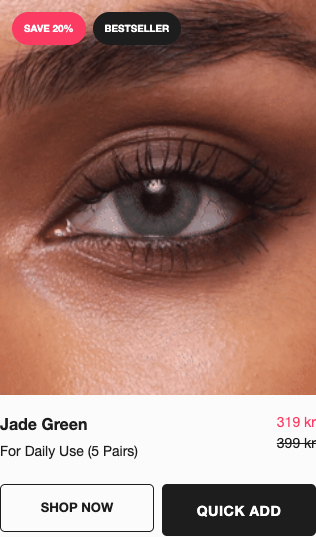
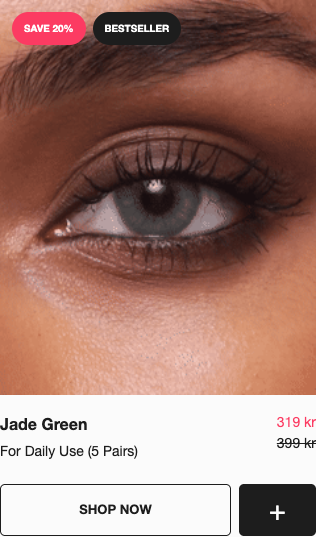
Change dual-action card to 75 percent Shop now and plus quick buy

Changed region(s): [[0.0, 0.8939, 0.769, 1.0], [0.7975, 0.9236, 0.8829, 0.9832]]

diff --git a/index.html b/index.html
@@ -4,20 +4,20 @@
 
 html{scroll-behavior:smooth;scroll-padding-top:90px}.jumpnav{position:sticky;top:0;z-index:20;display:flex;justify-content:center;gap:7px;padding:12px 20px;background:#f4f3eff5;backdrop-filter:blur(12px);border-bottom:1px solid #d6d5cf;overflow-x:auto}.jumpnav a{white-space:nowrap;text-decoration:none;font-size:12px;padding:8px 12px;border-radius:5px}.jumpnav a:hover,.jumpnav a:focus-visible{background:#e5eadf}.jumpnav span{color:#777;font-size:10px;margin-right:5px}.section-heading{display:flex;justify-content:space-between;align-items:center;border-top:1px solid #cecec7;padding-top:35px;margin-bottom:10px}.section-heading h2{margin-top:8px}.section-heading p{font-size:12px;color:#666}.hero{padding-top:30px}.confirmation{display:grid;grid-template-columns:1fr 2fr;gap:35px;align-items:center;margin-top:35px}.confirmation img{width:100%;border-radius:12px;border:1px solid #ddd}.confirmation>div:last-child{max-width:520px}.confirmation .launch{display:inline-block}main img{cursor:zoom-in}.zoom{padding:48px 10px 10px;border:0;border-radius:10px;max-width:96vw;max-height:96dvh;background:#f4f3ef}.zoom::backdrop{background:#000b}.zoom img{display:block;max-width:91vw;max-height:83dvh;width:auto;height:auto;object-fit:contain}.zoom button{position:absolute;top:8px;right:12px;background:transparent;border:0;font:28px Arial;cursor:pointer;width:36px;height:36px}.zoom p{position:absolute;top:13px;left:16px;font-size:12px;margin:0}.section .desktop{margin-bottom:40px}a:focus-visible,button:focus-visible{outline:3px solid #56796c;outline-offset:3px}
 @media(max-width:800px){.jumpnav{justify-content:flex-start;padding:9px 12px}.jumpnav a{font-size:11px;padding:6px 8px}.hero{padding-top:20px}.section-heading{display:block}.confirmation{grid-template-columns:1fr}.confirmation img{max-width:390px}.cards{gap:24px 16px}.state-grid{gap:35px}.zoom img{max-width:88vw}.zoom p{max-width:75%;white-space:nowrap;overflow:hidden;text-overflow:ellipsis}}
-</style></head><body><header><img src="assets/logo.svg?v=3" alt="SWATI"><span class="kicker">CRO EXPLORATION / 18 SEPTEMBER 2026</span></header><nav class="jumpnav" aria-label="Showcase sections"><a href="#mobile-concepts"><span>01</span> Mobile popups</a><a href="#card-buttons"><span>02</span> Card buttons</a><a href="#desktop-layouts"><span>03</span> Desktop popups</a><a href="#selection-states"><span>04</span> Selection states</a><a href="#references"><span>05</span> References</a><a href="#test-plan"><span>06</span> Test recommendation</a></nav><main>
+</style></head><body><header><img src="assets/logo.svg?v=4" alt="SWATI"><span class="kicker">CRO EXPLORATION / 18 SEPTEMBER 2026</span></header><nav class="jumpnav" aria-label="Showcase sections"><a href="#mobile-concepts"><span>01</span> Mobile popups</a><a href="#card-buttons"><span>02</span> Card buttons</a><a href="#desktop-layouts"><span>03</span> Desktop popups</a><a href="#selection-states"><span>04</span> Selection states</a><a href="#references"><span>05</span> References</a><a href="#test-plan"><span>06</span> Test recommendation</a></nav><main>
 <div class="hero"><div><div class="kicker">Collection → Configuration → Bag</div><h1>A shorter path<br>to their shade.</h1><p class="intro">Three quick-add experiences. One familiar SWATI card. All the essential lens choices, without leaving the collection.</p></div><aside class="recommend"><div class="kicker">Recommended first test</div><b>Current journey vs. compact selector</b><p>Replace “Shop now” with “Quick add”. Keep the image and name linked to the PDP. Test completed purchases and revenue, not just more adds.</p><a href="#test-plan">See the test recommendation ↓</a></aside></div>
 <section id="mobile-concepts" class="mobile-section"><div class="section-heading"><div><div class="kicker">01 / Mobile popups</div><h2>All three alternatives.</h2></div><p>Click a mockup to enlarge it.<br>Use “Try concept” to explore the flow.</p></div><div class="concepts">
-<article class="concept"><div class="caption"><span class="number">A</span><h3>Compact selector</h3><p>A bottom sheet on mobile. A centred modal on desktop. The clearest starting point.</p></div><a href="prototype.html?v=3&concept=compact&open=1"><img class="screen" src="previews/compact-mobile.png?v=3" alt="Concept A: compact mobile quick-add selector"></a><div class="actions"><a class="launch" href="prototype.html?v=3&concept=compact">Try concept A →</a><a href="previews/compact-desktop.png?v=3">Desktop</a><a href="prototype.html?v=3&concept=compact&open=1&state=dual">Two powers</a></div></article>
-<article class="concept"><div class="caption"><span class="number">B</span><h3>Roomier drawer</h3><p>More space to review the choices. A side drawer on desktop and a tall sheet on mobile.</p></div><a href="prototype.html?v=3&concept=drawer&open=1"><img class="screen" src="previews/drawer-mobile.png?v=3" alt="Concept B: tall mobile product drawer"></a><div class="actions"><a class="launch" href="prototype.html?v=3&concept=drawer">Try concept B →</a><a href="previews/drawer-desktop.png?v=3">Desktop</a><a href="prototype.html?v=3&concept=drawer&open=1&state=dual">Two powers</a></div></article>
-<article class="concept"><div class="caption"><span class="number">C</span><h3>Guided selection</h3><p>Choose lenses, then eye power. Less to process at once, with one extra step to complete.</p></div><a href="prototype.html?v=3&concept=guided&open=1"><img class="screen" src="previews/guided-mobile.png?v=3" alt="Concept C: first step of guided lens selection"></a><div class="actions"><a class="launch" href="prototype.html?v=3&concept=guided">Try concept C →</a><a href="previews/guided-desktop.png?v=3">Desktop</a><a href="prototype.html?v=3&concept=guided&open=1&state=ready">Step two</a></div></article>
+<article class="concept"><div class="caption"><span class="number">A</span><h3>Compact selector</h3><p>A bottom sheet on mobile. A centred modal on desktop. The clearest starting point.</p></div><a href="prototype.html?v=4&concept=compact&open=1"><img class="screen" src="previews/compact-mobile.png?v=4" alt="Concept A: compact mobile quick-add selector"></a><div class="actions"><a class="launch" href="prototype.html?v=4&concept=compact">Try concept A →</a><a href="previews/compact-desktop.png?v=4">Desktop</a><a href="prototype.html?v=4&concept=compact&open=1&state=dual">Two powers</a></div></article>
+<article class="concept"><div class="caption"><span class="number">B</span><h3>Roomier drawer</h3><p>More space to review the choices. A side drawer on desktop and a tall sheet on mobile.</p></div><a href="prototype.html?v=4&concept=drawer&open=1"><img class="screen" src="previews/drawer-mobile.png?v=4" alt="Concept B: tall mobile product drawer"></a><div class="actions"><a class="launch" href="prototype.html?v=4&concept=drawer">Try concept B →</a><a href="previews/drawer-desktop.png?v=4">Desktop</a><a href="prototype.html?v=4&concept=drawer&open=1&state=dual">Two powers</a></div></article>
+<article class="concept"><div class="caption"><span class="number">C</span><h3>Guided selection</h3><p>Choose lenses, then eye power. Less to process at once, with one extra step to complete.</p></div><a href="prototype.html?v=4&concept=guided&open=1"><img class="screen" src="previews/guided-mobile.png?v=4" alt="Concept C: first step of guided lens selection"></a><div class="actions"><a class="launch" href="prototype.html?v=4&concept=guided">Try concept C →</a><a href="previews/guided-desktop.png?v=4">Desktop</a><a href="prototype.html?v=4&concept=guided&open=1&state=ready">Step two</a></div></article>
 </div></section>
-<section class="section" id="card-buttons"><div class="kicker">02 / Card buttons</div><h2>Three ways to open it.</h2><p>Choose the popup and its entry separately. The three popup concepts above all use the same labelled button.</p><div class="cards"><div class="current"><h3>Control · current card</h3><img src="assets/current-card.png?v=3" alt="User-supplied current SWATI product card"><p>Shop now opens the PDP. Supplied screenshot.</p></div><div><h3>1 · Replace the button</h3><img src="previews/trigger-replace.png?v=3" alt="Quick Add primary button"><p>Highest visibility, same footprint. Image and title retain the PDP route.</p><a href="prototype.html?v=3&trigger=replace">Try this entry ↗</a></div><div><h3>2 · Keep both actions</h3><img src="previews/trigger-split.png?v=3" alt="Shop Now and Quick Add buttons"><p>Both journeys are explicit. Adds visual weight and mobile card height.</p><a href="prototype.html?v=3&trigger=split">Try this entry ↗</a></div><div><h3>3 · Add a permanent plus</h3><img src="previews/trigger-plus.png?v=3" alt="Plus button over product photo with Shop Now below"><p>Keeps the current CTA. Less explicit, and places a control over the eye photo.</p><a href="prototype.html?v=3&trigger=plus">Try this entry ↗</a></div></div></section>
-<section class="section" id="desktop-layouts"><div class="kicker">03 / Desktop popups</div><h2>Same choices. Different amount of space.</h2><h3>A · Centred selector</h3><img class="desktop" src="previews/compact-desktop.png?v=3" alt="Compact desktop modal"><h3>B · Side drawer</h3><img class="desktop" src="previews/drawer-desktop.png?v=3" alt="Desktop quick-add drawer"><h3>C · Two-step modal</h3><img class="desktop" src="previews/guided-desktop.png?v=3" alt="Wide guided desktop modal with eye image"></section>
-<section class="section" id="selection-states"><div class="kicker">04 / Selection states</div><h2>Two powers means two packs.</h2><p>Show that consequence before adding. Keep the total visible, and confirm exactly what went into the bag.</p><div class="state-grid"><div><h3>A · Separate eye powers</h3><img src="previews/compact-mobile-dual.png?v=3" alt="Two eye powers and a combined 638 kr total"></div><div><h3>B · Separate eye powers</h3><img src="previews/drawer-mobile-dual.png?v=3" alt="Drawer showing separate left and right eye powers"></div><div><h3>C · Second step</h3><img src="previews/guided-mobile-dual.png?v=3" alt="Guided selection eye-power step"></div></div><div class="confirmation"><div><h3>After adding · Confirmation</h3><img src="previews/compact-mobile-success.png?v=3" alt="Mock confirmation showing four packs after quantity changed to two per eye"></div><div><h3>Review before returning to the collection.</h3><p>Every concept supports separate left and right powers. The summary shows the selected shade, duration, pack count and combined total.</p><p>This example follows increasing quantity to two per eye: four packs total.</p><a class="launch" href="prototype.html?v=3&concept=compact&open=1&state=dual">Try the two-power flow →</a></div></div><p class="note">Confirmation example follows increasing quantity to two per eye: four packs total. Production should hand off to SWATI’s existing cart drawer. This prototype never changes a real cart.</p></section>
-<section class="section" id="references"><div class="kicker">05 / Reference takeaways</div><h2>Borrow the right behaviour.</h2><div class="table"><div><h3>Meridian · options first</h3><p>The sampled trimmer opens a product modal with colour choices before adding. This is the closest match to SWATI’s need.</p><a href="https://www.meridiangrooming.com/collections/trimmers">Reference ↗</a> · <a href="research/meridian-quick.png?v=3">Observed modal</a></div><div><h3>Javvy · immediate feedback</h3><p>The sampled item goes straight into a cart drawer. Borrow its clear confirmation; SWATI needs eye-power selection before that point.</p><a href="https://javvycoffee.com/">Reference ↗</a> · <a href="research/javvy-quick.png?v=3">Observed drawer</a></div><div><h3>True Classic · clear choices</h3><p>The rendered configurator exposes size, length and pack choices, and asks for a size before adding. Its collection popup was not separately verified.</p><a href="https://www.trueclassictees.com/">Reference ↗</a></div></div></section>
+<section class="section" id="card-buttons"><div class="kicker">02 / Card buttons</div><h2>Three ways to open it.</h2><p>Choose the popup and its entry separately. The three popup concepts above all use the same labelled button.</p><div class="cards"><div class="current"><h3>Control · current card</h3><img src="assets/current-card.png?v=4" alt="User-supplied current SWATI product card"><p>Shop now opens the PDP. Supplied screenshot.</p></div><div><h3>1 · Replace the button</h3><img src="previews/trigger-replace.png?v=4" alt="Quick Add primary button"><p>Highest visibility, same footprint. Image and title retain the PDP route.</p><a href="prototype.html?v=4&trigger=replace">Try this entry ↗</a></div><div><h3>2 · Keep both actions</h3><img src="previews/trigger-split.png?v=4" alt="75 percent Shop Now button and 25 percent plus quick-buy button"><p>Shop now takes approximately 75% of the row. The + quick-buy button takes the remaining 25%, on desktop and mobile.</p><a href="prototype.html?v=4&trigger=split">Try this entry ↗</a></div><div><h3>3 · Add a permanent plus</h3><img src="previews/trigger-plus.png?v=4" alt="Plus button over product photo with Shop Now below"><p>Keeps the current CTA. Less explicit, and places a control over the eye photo.</p><a href="prototype.html?v=4&trigger=plus">Try this entry ↗</a></div></div></section>
+<section class="section" id="desktop-layouts"><div class="kicker">03 / Desktop popups</div><h2>Same choices. Different amount of space.</h2><h3>A · Centred selector</h3><img class="desktop" src="previews/compact-desktop.png?v=4" alt="Compact desktop modal"><h3>B · Side drawer</h3><img class="desktop" src="previews/drawer-desktop.png?v=4" alt="Desktop quick-add drawer"><h3>C · Two-step modal</h3><img class="desktop" src="previews/guided-desktop.png?v=4" alt="Wide guided desktop modal with eye image"></section>
+<section class="section" id="selection-states"><div class="kicker">04 / Selection states</div><h2>Two powers means two packs.</h2><p>Show that consequence before adding. Keep the total visible, and confirm exactly what went into the bag.</p><div class="state-grid"><div><h3>A · Separate eye powers</h3><img src="previews/compact-mobile-dual.png?v=4" alt="Two eye powers and a combined 638 kr total"></div><div><h3>B · Separate eye powers</h3><img src="previews/drawer-mobile-dual.png?v=4" alt="Drawer showing separate left and right eye powers"></div><div><h3>C · Second step</h3><img src="previews/guided-mobile-dual.png?v=4" alt="Guided selection eye-power step"></div></div><div class="confirmation"><div><h3>After adding · Confirmation</h3><img src="previews/compact-mobile-success.png?v=4" alt="Mock confirmation showing four packs after quantity changed to two per eye"></div><div><h3>Review before returning to the collection.</h3><p>Every concept supports separate left and right powers. The summary shows the selected shade, duration, pack count and combined total.</p><p>This example follows increasing quantity to two per eye: four packs total.</p><a class="launch" href="prototype.html?v=4&concept=compact&open=1&state=dual">Try the two-power flow →</a></div></div><p class="note">Confirmation example follows increasing quantity to two per eye: four packs total. Production should hand off to SWATI’s existing cart drawer. This prototype never changes a real cart.</p></section>
+<section class="section" id="references"><div class="kicker">05 / Reference takeaways</div><h2>Borrow the right behaviour.</h2><div class="table"><div><h3>Meridian · options first</h3><p>The sampled trimmer opens a product modal with colour choices before adding. This is the closest match to SWATI’s need.</p><a href="https://www.meridiangrooming.com/collections/trimmers">Reference ↗</a> · <a href="research/meridian-quick.png?v=4">Observed modal</a></div><div><h3>Javvy · immediate feedback</h3><p>The sampled item goes straight into a cart drawer. Borrow its clear confirmation; SWATI needs eye-power selection before that point.</p><a href="https://javvycoffee.com/">Reference ↗</a> · <a href="research/javvy-quick.png?v=4">Observed drawer</a></div><div><h3>True Classic · clear choices</h3><p>The rendered configurator exposes size, length and pack choices, and asks for a size before adding. Its collection popup was not separately verified.</p><a href="https://www.trueclassictees.com/">Reference ↗</a></div></div></section>
 <section class="section two" id="test-plan"><div><div class="kicker">06 / Test recommendation</div><h2>Start with A.</h2><p>50/50 visitor assignment. Current Shop now journey against the compact quick-add journey. Keep photography, badges, pricing and product order the same between arms.</p><p><b>Primary:</b> revenue per eligible visitor.<br><b>Read alongside:</b> order conversion, AOV, abandonment, errors and mobile performance.</p><p>Set the sample size and stopping rule using the store’s baseline. An increase in quick-add usage alone is not a win.</p></div><div><div class="kicker">Implementation</div><h2>Preserve the PDP logic.</h2><p>Shade and duration resolve linked products; eye power selects the variant. Two powers create two packs. Price, stock and availability must update with the selection.</p><p>Run the experiment through Intelligems on global first. A winning treatment gets a proper theme implementation after the test.</p><a href="#mobile-concepts">Back to the mobile concepts ↑</a></div></section>
 <p class="note">Design exploration, not a live store build. Real SWATI photography and supplied card reference; no generated lens colours. Prices are snapshots. Fonts are approximations and the collection header is simplified. Availability, network error handling and live cart integration remain implementation work.</p>
-</main><footer>SWATI / Quick add exploration · Three responsive prototypes, three card entries, desktop and mobile states. Review showcase only · Store unchanged · Build 2026-09-18.3</footer><script>if(new URLSearchParams(location.search).has('overview'))document.body.classList.add('overview-only');</script><dialog class="zoom" aria-label="Enlarged mockup"><p></p><button aria-label="Close enlarged mockup">×</button><img alt=""></dialog><script>
+</main><footer>SWATI / Quick add exploration · Three responsive prototypes, three card entries, desktop and mobile states. Review showcase only · Store unchanged · Build 2026-09-18.4</footer><script>if(new URLSearchParams(location.search).has('overview'))document.body.classList.add('overview-only');</script><dialog class="zoom" aria-label="Enlarged mockup"><p></p><button aria-label="Close enlarged mockup">×</button><img alt=""></dialog><script>
 const zoom=document.querySelector('.zoom');let prior;
 document.querySelectorAll('main img').forEach(img=>{img.tabIndex=0;img.setAttribute('role','button');img.setAttribute('aria-label','Enlarge: '+img.alt);const show=e=>{e.preventDefault();prior=img;zoom.querySelector('img').src=img.src;zoom.querySelector('img').alt=img.alt;zoom.querySelector('p').textContent=img.alt;zoom.showModal();document.body.style.overflow='hidden'};img.addEventListener('click',show);img.addEventListener('keydown',e=>{if(e.key==='Enter'||e.key===' ')show(e)})});
 zoom.querySelector('button').onclick=()=>zoom.close();zoom.addEventListener('click',e=>{if(e.target===zoom)zoom.close()});zoom.addEventListener('close',()=>{document.body.style.overflow='';prior?.focus()});

diff --git a/style.css b/style.css
@@ -1,6 +1,8 @@
-:root{--bg:#fbfbfb;--ink:#1d1d1d;--pink:#fc3b62;--line:#d5d5d5}*{box-sizing:border-box}body{margin:0;background:var(--bg);color:var(--ink);font:15px/1.5 'Helvetica Neue',Arial,sans-serif}button,select{font:inherit;color:inherit}button,a,select,input{touch-action:manipulation}button{cursor:pointer}button:focus-visible,a:focus-visible,select:focus-visible,input:focus-visible{outline:3px solid #56796c;outline-offset:3px}a{color:inherit}button{border:0;background:none}h1,h2,p{margin:0}h1{font:52px/1.1 Georgia,serif;letter-spacing:-1.5px}h2{font:34px/1.12 Georgia,serif;letter-spacing:-.7px}.demo{padding:7px 20px;background:#e9eee9;font-size:11px;letter-spacing:.05em;display:flex;justify-content:space-between}.announcement{text-align:center;border-bottom:1px solid var(--line);font-size:10px;letter-spacing:.16em;padding:9px}.storehead{height:85px;margin:0 40px;border-bottom:1px solid var(--line);display:flex;align-items:center;justify-content:space-between}.storehead img{width:136px}.storehead>span{width:80px}.storehead>span:last-child{text-align:right}.collection-title{padding:38px 0 26px}.eyebrow{font-size:10px;letter-spacing:.18em;margin-bottom:14px}.filter{display:flex;justify-content:space-between;margin-top:28px;font-size:13px}main{padding:0 40px 40px;max-width:1600px;margin:auto}.grid{display:grid;grid-template-columns:repeat(4,1fr);gap:32px}.card .photo{position:relative;aspect-ratio:4/5;overflow:hidden}.card .photo>a{display:block;height:100%}.card .photo img{width:100%;height:100%;object-fit:cover}.badges{position:absolute;top:12px;left:12px;display:flex;gap:7px;pointer-events:none}.badge{background:var(--pink);color:white;padding:9px 12px;border-radius:30px;font-size:10px;font-weight:700}.badge.black{background:var(--ink)}.meta{display:flex;justify-content:space-between;gap:6px;margin:17px 0 22px;font-size:14px}.meta strong{font-size:16px}.meta a{text-decoration:none}.meta p{margin-top:5px}.cardprice{color:var(--pink);text-align:right;white-space:nowrap}.cardprice s{display:block;color:var(--ink)}.primary{height:52px;background:var(--ink);color:white;border-radius:5px;font-weight:700;font-size:14px;letter-spacing:.035em;width:100%}.primary:disabled{opacity:.6;cursor:wait}.secondary{border:1px solid var(--ink);height:48px;width:100%;border-radius:5px;font-size:13px;font-weight:600}.splitactions{display:grid;grid-template-columns:1fr 1fr;gap:8px}.splitactions a{display:flex;align-items:center;justify-content:center;text-decoration:none}.plus-trigger{position:absolute;bottom:12px;right:12px;background:white;border:1px solid #ddd;border-radius:50%;width:44px;height:44px;font-size:28px;box-shadow:0 2px 8px #0001}.details-under{display:block;text-align:center;font-size:12px;margin-top:11px}dialog{border:0;padding:0;background:var(--bg);color:var(--ink);box-shadow:0 20px 100px #0003}dialog::backdrop{background:#0006}#quick{width:490px;max-width:calc(100% - 40px);max-height:calc(100dvh - 48px);border-radius:12px}.dialog-layout{display:flex;height:100%;max-height:inherit}.panel{min-width:0;display:flex;flex-direction:column;width:100%;max-height:inherit}.panelhead{display:flex;align-items:center;justify-content:space-between;padding:16px 24px;border-bottom:1px solid #e3e3e3;font-size:14px;font-weight:500;flex-shrink:0}.close{width:36px;height:36px;font-size:28px;font-weight:300;line-height:1}.scrollarea{padding:22px 24px 18px;overflow-y:auto;min-height:0}.productsummary{display:flex;gap:16px;align-items:center;margin-bottom:25px}.productsummary img{width:78px;height:94px;object-fit:cover}.productsummary p{font-size:12px;margin:7px 0}.price{font-size:16px;display:flex;align-items:center;gap:8px;color:var(--pink)}.price s{font-size:13px;color:#777}.saving{font-size:9px;padding:3px 6px;background:#fce9ed;border-radius:3px;color:#bd2443}.field{margin:0 0 18px;padding:0;border:0}label,legend{display:block;font-size:12px;font-weight:500;margin:0 0 8px}select{width:100%;height:46px;border:1px solid #bdbdbd;border-radius:4px;background:var(--bg);padding:0 12px;font-size:14px}fieldset legend{padding:0}.durations{display:grid;grid-template-columns:repeat(3,1fr);gap:8px}.duration{border:1px solid #bdbdbd;border-radius:4px;padding:11px 4px;text-align:center;min-height:72px;font-size:13px}.duration small{display:block;font-size:11px;margin-top:4px}.duration[aria-pressed=true]{border:2px solid var(--ink);background:#f1f1ee;padding:10px 3px}.checkbox{display:flex;align-items:center;gap:9px;font-weight:400;font-size:12px;margin-bottom:17px;min-height:26px}.checkbox input{width:17px;height:17px;accent-color:var(--ink);margin:0}.dualfields{display:grid;grid-template-columns:1fr 1fr;gap:10px;margin-bottom:12px}[hidden]{display:none!important}.packnote{font-size:12px;background:#f0eee8;padding:11px;margin-bottom:15px;line-height:1.5}.quantityrow{display:flex;align-items:center;justify-content:space-between;margin:17px 0}.quantityrow b{font-size:12px;font-weight:500}.quantityrow small{display:block;font-size:11px;color:#666;margin-top:3px}.stepper{display:flex;align-items:center;border:1px solid #bdbdbd;border-radius:4px;height:44px}.stepper button{width:40px;height:42px;font-size:19px}.stepper output{width:24px;text-align:center;font-size:14px}.detail-link{font-size:12px;text-underline-offset:4px}.buyfooter{padding:17px 24px 18px;border-top:1px solid #ddd;background:var(--bg);flex-shrink:0}.summaryline{display:flex;justify-content:space-between;font-size:12px;margin-bottom:12px}.summaryline b{font-size:17px}.buyfooter>small{display:block;text-align:center;font-size:10px;color:#686868;margin-top:10px}.editorial{display:none}.stepnav{display:flex;justify-content:space-between;font-size:12px;border-bottom:1px solid #ddd;padding-bottom:14px;margin-bottom:24px}.stepnav span{color:#777}.stepnav .active{color:#111;font-weight:600}.footerbuttons{display:flex;gap:12px}.back{width:64px;font-size:13px;text-decoration:underline}.error{color:#af1736;font-size:12px;margin:12px 0}.drawer #quick{margin:0 0 0 auto;max-height:100dvh;height:100dvh;width:560px;max-width:100%;border-radius:0}.drawer .panelhead{padding:22px 30px}.drawer .scrollarea{padding:26px 30px}.drawer .buyfooter{margin-top:auto;padding:22px 30px}.drawer .productsummary img{width:105px;height:125px}.drawer .duration{min-height:82px}.guided #quick{width:860px}.guided .editorial{display:block;width:42%;position:relative;flex-shrink:0;overflow:hidden}.editorial img{width:100%;height:100%;object-fit:cover}.editorial span{position:absolute;bottom:22px;left:22px;color:white;letter-spacing:.13em;font-size:10px;text-shadow:0 1px 10px #000}.guided .productsummary img{display:none}.guided .productsummary{margin-bottom:22px}.guided .scrollarea{min-height:390px}.guided .panelhead{border-bottom:0;padding-bottom:0}#success{width:420px;max-width:calc(100% - 32px);border-radius:10px;padding:0 24px 24px}#success .panelhead{padding:14px 0;margin-bottom:20px}#success h2{font-size:32px;margin-bottom:20px}#receipt{font-size:14px;line-height:1.8}.prototype-note{font-size:11px;color:#666;margin:18px 0}.artboard .demo{display:none}.artboard .storehead{height:70px}.artboard .collection-title{padding-top:22px}.artboard .announcement{font-size:9px}
-@media(max-width:650px){.demo{font-size:9px;padding:6px 12px}.storehead{height:65px;margin:0 16px}.storehead img{width:103px}.storehead span{font-size:12px}.announcement{font-size:8px;padding:8px}main{padding:0 16px 30px}.collection-title{padding:25px 0 20px}h1{font-size:38px}.eyebrow{font-size:8px}.filter{margin-top:20px;font-size:12px}.grid{grid-template-columns:repeat(2,1fr);gap:26px 12px}.badges{top:6px;left:6px;gap:4px}.badge{padding:5px 7px;font-size:7px}.meta{font-size:10px;margin:11px 0 14px}.meta strong{font-size:12px}.meta p{font-size:10px}.card .primary{height:44px;font-size:11px}.splitactions{grid-template-columns:1fr}.secondary{height:38px;font-size:10px}.card .details-under{font-size:10px}.cardprice{font-size:11px}#quick{margin:auto 0 0;width:100%;max-width:100%;max-height:calc(100dvh - 36px);border-radius:16px 16px 0 0}.panelhead{padding:12px 20px}.scrollarea{padding:18px 20px}.productsummary{margin-bottom:21px;gap:13px}.productsummary img{width:67px;height:80px}h2{font-size:29px}.price{font-size:15px}.productsummary p{font-size:11px}.field{margin-bottom:17px}.buyfooter{padding:15px 20px 19px}.drawer #quick{height:calc(100dvh - 18px);max-height:calc(100dvh - 18px);margin:auto 0 0;border-radius:16px 16px 0 0}.drawer .panelhead{padding:12px 20px}.drawer .scrollarea{padding:18px 20px}.drawer .buyfooter{padding:15px 20px 19px}.drawer .productsummary img{width:95px;height:113px}.drawer .duration{min-height:76px}.guided .editorial{display:none}.guided .productsummary img{display:block}.guided .scrollarea{min-height:0}.guided .stepnav{margin-bottom:23px}.guided .panelhead{padding-bottom:7px}.guided #quick{width:100%}.guided .buyfooter{margin-top:8px}.guided .productsummary{margin-bottom:23px}}
+:root{--bg:#fbfbfb;--ink:#1d1d1d;--pink:#fc3b62;--line:#d5d5d5}*{box-sizing:border-box}body{margin:0;background:var(--bg);color:var(--ink);font:15px/1.5 'Helvetica Neue',Arial,sans-serif}button,select{font:inherit;color:inherit}button,a,select,input{touch-action:manipulation}button{cursor:pointer}button:focus-visible,a:focus-visible,select:focus-visible,input:focus-visible{outline:3px solid #56796c;outline-offset:3px}a{color:inherit}button{border:0;background:none}h1,h2,p{margin:0}h1{font:52px/1.1 Georgia,serif;letter-spacing:-1.5px}h2{font:34px/1.12 Georgia,serif;letter-spacing:-.7px}.demo{padding:7px 20px;background:#e9eee9;font-size:11px;letter-spacing:.05em;display:flex;justify-content:space-between}.announcement{text-align:center;border-bottom:1px solid var(--line);font-size:10px;letter-spacing:.16em;padding:9px}.storehead{height:85px;margin:0 40px;border-bottom:1px solid var(--line);display:flex;align-items:center;justify-content:space-between}.storehead img{width:136px}.storehead>span{width:80px}.storehead>span:last-child{text-align:right}.collection-title{padding:38px 0 26px}.eyebrow{font-size:10px;letter-spacing:.18em;margin-bottom:14px}.filter{display:flex;justify-content:space-between;margin-top:28px;font-size:13px}main{padding:0 40px 40px;max-width:1600px;margin:auto}.grid{display:grid;grid-template-columns:repeat(4,1fr);gap:32px}.card .photo{position:relative;aspect-ratio:4/5;overflow:hidden}.card .photo>a{display:block;height:100%}.card .photo img{width:100%;height:100%;object-fit:cover}.badges{position:absolute;top:12px;left:12px;display:flex;gap:7px;pointer-events:none}.badge{background:var(--pink);color:white;padding:9px 12px;border-radius:30px;font-size:10px;font-weight:700}.badge.black{background:var(--ink)}.meta{display:flex;justify-content:space-between;gap:6px;margin:17px 0 22px;font-size:14px}.meta strong{font-size:16px}.meta a{text-decoration:none}.meta p{margin-top:5px}.cardprice{color:var(--pink);text-align:right;white-space:nowrap}.cardprice s{display:block;color:var(--ink)}.primary{height:52px;background:var(--ink);color:white;border-radius:5px;font-weight:700;font-size:14px;letter-spacing:.035em;width:100%}.primary:disabled{opacity:.6;cursor:wait}.secondary{border:1px solid var(--ink);height:48px;width:100%;border-radius:5px;font-size:13px;font-weight:600}.splitactions{display:grid;grid-template-columns:minmax(0,3fr) minmax(44px,1fr);gap:8px}.splitactions a{display:flex;align-items:center;justify-content:center;text-decoration:none}.plus-trigger{position:absolute;bottom:12px;right:12px;background:white;border:1px solid #ddd;border-radius:50%;width:44px;height:44px;font-size:28px;box-shadow:0 2px 8px #0001}.details-under{display:block;text-align:center;font-size:12px;margin-top:11px}dialog{border:0;padding:0;background:var(--bg);color:var(--ink);box-shadow:0 20px 100px #0003}dialog::backdrop{background:#0006}#quick{width:490px;max-width:calc(100% - 40px);max-height:calc(100dvh - 48px);border-radius:12px}.dialog-layout{display:flex;height:100%;max-height:inherit}.panel{min-width:0;display:flex;flex-direction:column;width:100%;max-height:inherit}.panelhead{display:flex;align-items:center;justify-content:space-between;padding:16px 24px;border-bottom:1px solid #e3e3e3;font-size:14px;font-weight:500;flex-shrink:0}.close{width:36px;height:36px;font-size:28px;font-weight:300;line-height:1}.scrollarea{padding:22px 24px 18px;overflow-y:auto;min-height:0}.productsummary{display:flex;gap:16px;align-items:center;margin-bottom:25px}.productsummary img{width:78px;height:94px;object-fit:cover}.productsummary p{font-size:12px;margin:7px 0}.price{font-size:16px;display:flex;align-items:center;gap:8px;color:var(--pink)}.price s{font-size:13px;color:#777}.saving{font-size:9px;padding:3px 6px;background:#fce9ed;border-radius:3px;color:#bd2443}.field{margin:0 0 18px;padding:0;border:0}label,legend{display:block;font-size:12px;font-weight:500;margin:0 0 8px}select{width:100%;height:46px;border:1px solid #bdbdbd;border-radius:4px;background:var(--bg);padding:0 12px;font-size:14px}fieldset legend{padding:0}.durations{display:grid;grid-template-columns:repeat(3,1fr);gap:8px}.duration{border:1px solid #bdbdbd;border-radius:4px;padding:11px 4px;text-align:center;min-height:72px;font-size:13px}.duration small{display:block;font-size:11px;margin-top:4px}.duration[aria-pressed=true]{border:2px solid var(--ink);background:#f1f1ee;padding:10px 3px}.checkbox{display:flex;align-items:center;gap:9px;font-weight:400;font-size:12px;margin-bottom:17px;min-height:26px}.checkbox input{width:17px;height:17px;accent-color:var(--ink);margin:0}.dualfields{display:grid;grid-template-columns:1fr 1fr;gap:10px;margin-bottom:12px}[hidden]{display:none!important}.packnote{font-size:12px;background:#f0eee8;padding:11px;margin-bottom:15px;line-height:1.5}.quantityrow{display:flex;align-items:center;justify-content:space-between;margin:17px 0}.quantityrow b{font-size:12px;font-weight:500}.quantityrow small{display:block;font-size:11px;color:#666;margin-top:3px}.stepper{display:flex;align-items:center;border:1px solid #bdbdbd;border-radius:4px;height:44px}.stepper button{width:40px;height:42px;font-size:19px}.stepper output{width:24px;text-align:center;font-size:14px}.detail-link{font-size:12px;text-underline-offset:4px}.buyfooter{padding:17px 24px 18px;border-top:1px solid #ddd;background:var(--bg);flex-shrink:0}.summaryline{display:flex;justify-content:space-between;font-size:12px;margin-bottom:12px}.summaryline b{font-size:17px}.buyfooter>small{display:block;text-align:center;font-size:10px;color:#686868;margin-top:10px}.editorial{display:none}.stepnav{display:flex;justify-content:space-between;font-size:12px;border-bottom:1px solid #ddd;padding-bottom:14px;margin-bottom:24px}.stepnav span{color:#777}.stepnav .active{color:#111;font-weight:600}.footerbuttons{display:flex;gap:12px}.back{width:64px;font-size:13px;text-decoration:underline}.error{color:#af1736;font-size:12px;margin:12px 0}.drawer #quick{margin:0 0 0 auto;max-height:100dvh;height:100dvh;width:560px;max-width:100%;border-radius:0}.drawer .panelhead{padding:22px 30px}.drawer .scrollarea{padding:26px 30px}.drawer .buyfooter{margin-top:auto;padding:22px 30px}.drawer .productsummary img{width:105px;height:125px}.drawer .duration{min-height:82px}.guided #quick{width:860px}.guided .editorial{display:block;width:42%;position:relative;flex-shrink:0;overflow:hidden}.editorial img{width:100%;height:100%;object-fit:cover}.editorial span{position:absolute;bottom:22px;left:22px;color:white;letter-spacing:.13em;font-size:10px;text-shadow:0 1px 10px #000}.guided .productsummary img{display:none}.guided .productsummary{margin-bottom:22px}.guided .scrollarea{min-height:390px}.guided .panelhead{border-bottom:0;padding-bottom:0}#success{width:420px;max-width:calc(100% - 32px);border-radius:10px;padding:0 24px 24px}#success .panelhead{padding:14px 0;margin-bottom:20px}#success h2{font-size:32px;margin-bottom:20px}#receipt{font-size:14px;line-height:1.8}.prototype-note{font-size:11px;color:#666;margin:18px 0}.artboard .demo{display:none}.artboard .storehead{height:70px}.artboard .collection-title{padding-top:22px}.artboard .announcement{font-size:9px}
+@media(max-width:650px){.demo{font-size:9px;padding:6px 12px}.storehead{height:65px;margin:0 16px}.storehead img{width:103px}.storehead span{font-size:12px}.announcement{font-size:8px;padding:8px}main{padding:0 16px 30px}.collection-title{padding:25px 0 20px}h1{font-size:38px}.eyebrow{font-size:8px}.filter{margin-top:20px;font-size:12px}.grid{grid-template-columns:repeat(2,1fr);gap:26px 12px}.badges{top:6px;left:6px;gap:4px}.badge{padding:5px 7px;font-size:7px}.meta{font-size:10px;margin:11px 0 14px}.meta strong{font-size:12px}.meta p{font-size:10px}.card .primary{height:44px;font-size:11px}.splitactions .secondary{height:44px}.secondary{height:38px;font-size:10px}.card .details-under{font-size:10px}.cardprice{font-size:11px}#quick{margin:auto 0 0;width:100%;max-width:100%;max-height:calc(100dvh - 36px);border-radius:16px 16px 0 0}.panelhead{padding:12px 20px}.scrollarea{padding:18px 20px}.productsummary{margin-bottom:21px;gap:13px}.productsummary img{width:67px;height:80px}h2{font-size:29px}.price{font-size:15px}.productsummary p{font-size:11px}.field{margin-bottom:17px}.buyfooter{padding:15px 20px 19px}.drawer #quick{height:calc(100dvh - 18px);max-height:calc(100dvh - 18px);margin:auto 0 0;border-radius:16px 16px 0 0}.drawer .panelhead{padding:12px 20px}.drawer .scrollarea{padding:18px 20px}.drawer .buyfooter{padding:15px 20px 19px}.drawer .productsummary img{width:95px;height:113px}.drawer .duration{min-height:76px}.guided .editorial{display:none}.guided .productsummary img{display:block}.guided .scrollarea{min-height:0}.guided .stepnav{margin-bottom:23px}.guided .panelhead{padding-bottom:7px}.guided #quick{width:100%}.guided .buyfooter{margin-top:8px}.guided .productsummary{margin-bottom:23px}}
 
 #duration-select{display:none}.compact #duration-select{display:block}.compact #durations{display:none}.compact #lensstep{display:grid;grid-template-columns:1fr 1fr;gap:12px}.compact #lensstep .field{min-width:0}.compact .scrollarea{padding-top:18px}.compact .productsummary{margin-bottom:21px}
 
 .duration{position:relative}.durations{padding-top:12px}.choice-badge{position:absolute;top:-12px;left:50%;transform:translateX(-50%);padding:3px 9px;border-radius:20px;background:var(--ink);color:#fff;font-size:10px;font-weight:600;line-height:16px;white-space:nowrap}.duration[aria-pressed=true] .choice-badge{top:-13px}
+
+.splitactions .secondary{height:52px}.splitactions .split-quick{font-size:28px;font-weight:400;line-height:1;letter-spacing:0;padding:0;display:flex;align-items:center;justify-content:center}@media(max-width:650px){.splitactions .secondary{height:44px}.splitactions .split-quick{font-size:26px}}

diff --git a/prototype.html b/prototype.html
@@ -1,14 +1,14 @@
 <!doctype html>
-<html lang="en"><head><meta charset="utf-8"><meta name="viewport" content="width=device-width,initial-scale=1"><meta name="robots" content="noindex,nofollow"><title>SWATI — Quick add concept</title><link rel="stylesheet" href="style.css?v=3"></head>
+<html lang="en"><head><meta charset="utf-8"><meta name="viewport" content="width=device-width,initial-scale=1"><meta name="robots" content="noindex,nofollow"><title>SWATI — Quick add concept</title><link rel="stylesheet" href="style.css?v=4"></head>
 <body><div class="demo">DESIGN PROTOTYPE · No orders are placed <a href="index.html">All concepts ↗</a></div>
 <div class="announcement">BE YOUR OWN KIND OF BEAUTIFUL.</div>
-<header class="storehead"><span>☰</span><img src="assets/logo.svg?v=3" alt="SWATI"><span>Bag <b id="count">0</b></span></header>
+<header class="storehead"><span>☰</span><img src="assets/logo.svg?v=4" alt="SWATI"><span>Bag <b id="count">0</b></span></header>
 <main id="collection"><div class="collection-title"><p class="eyebrow">COLOURED CONTACT LENSES</p><h1>Find your shade.</h1><div class="filter"><span>Daily lenses</span><span>Filter & sort ⌄</span></div></div><div class="grid" id="grid"></div></main>
-<dialog id="quick" aria-labelledby="qtitle"><div class="dialog-layout"><div class="editorial"><img id="largeimage" src="assets/jade.png?v=3" alt="Jade Green lenses on an eye"><span>YOUR SHADE. YOUR WAY.</span></div><div class="panel"><header class="panelhead"><span id="panel-label">Quick add</span><button class="close" aria-label="Close quick add">×</button></header><div class="scrollarea" id="scrollarea"><div class="productsummary"><img id="smallimage" src="assets/jade.png?v=3" alt="Jade Green"><div><h2 id="qtitle">Jade Green</h2><p id="subline">1-Day · 5 pairs per pack</p><div class="price"><span id="unitprice">319 kr</span> <s id="compare">399 kr</s> <span class="saving">SAVE 20%</span></div></div></div>
+<dialog id="quick" aria-labelledby="qtitle"><div class="dialog-layout"><div class="editorial"><img id="largeimage" src="assets/jade.png?v=4" alt="Jade Green lenses on an eye"><span>YOUR SHADE. YOUR WAY.</span></div><div class="panel"><header class="panelhead"><span id="panel-label">Quick add</span><button class="close" aria-label="Close quick add">×</button></header><div class="scrollarea" id="scrollarea"><div class="productsummary"><img id="smallimage" src="assets/jade.png?v=4" alt="Jade Green"><div><h2 id="qtitle">Jade Green</h2><p id="subline">1-Day · 5 pairs per pack</p><div class="price"><span id="unitprice">319 kr</span> <s id="compare">399 kr</s> <span class="saving">SAVE 20%</span></div></div></div>
 <div class="stepnav" hidden><span id="step1tag">01 &nbsp; Your lenses</span><span id="step2tag">02 &nbsp; Eye power</span></div>
 <section id="lensstep"><div class="field"><label for="shade">Shade</label><select id="shade"></select></div><fieldset class="field"><legend>Lens duration</legend><select id="duration-select" aria-label="Lens duration"></select><div class="durations" id="durations"></div></fieldset></section>
 <section id="powerstep"><div class="field"><label for="power">Eye power</label><select id="power"></select></div><label class="checkbox"><input type="checkbox" id="dual">I need two different eye powers</label><div class="dualfields" hidden><div><label for="left">Left eye</label><select id="left"></select></div><div><label for="right">Right eye</label><select id="right"></select></div></div><p id="packnote" class="packnote" hidden>Two packs will be added: one for each eye power.</p><div class="quantityrow"><div><b id="qtylabel">Quantity</b><small id="qtyhelp">1 pack · 5 pairs</small></div><div class="stepper"><button id="minus" aria-label="Decrease quantity">−</button><output id="qty">1</output><button id="plus" aria-label="Increase quantity">+</button></div></div></section>
 <p class="error" role="alert" id="error" hidden>Please choose your eye power.</p><a id="details" class="detail-link" href="https://www.swati.com/products/green-jade-daily-lenses">View full product details ↗</a></div>
 <footer class="buyfooter"><div class="summaryline"><span id="summary">1 pack · 5 pairs</span><b id="total">319 kr</b></div><div class="footerbuttons"><button class="back" hidden>Back</button><button class="primary" id="add">CHOOSE EYE POWER</button></div><small id="footerhint">Choose your options to add to bag.</small></footer></div></div></dialog>
 <dialog id="success" aria-labelledby="success-title"><header class="panelhead"><span>✓ Added to bag</span><button class="close" aria-label="Close confirmation">×</button></header><h2 id="success-title">Your shade is in the bag.</h2><div id="receipt"></div><p class="prototype-note">Prototype confirmation — no live cart is changed.</p><button class="primary" id="continue">CONTINUE SHOPPING</button></dialog>
-<script src="app.js?v=3"></script></body></html>
+<script src="app.js?v=4"></script></body></html>

diff --git a/app.js b/app.js
@@ -10,7 +10,7 @@ function money(n){return n.toLocaleString('en-SE')+' kr'}
 function packs(){return state.qty*(state.dual?2:1)}
 function valid(){return state.dual?state.left!==''&&state.right!=='':state.power!==''}
 function packText(){const n=packs(), pairs=n*(state.duration===0?5:1);return `${n} ${n===1?'pack':'packs'} · ${pairs} ${pairs===1?'pair':'pairs'}`}
-$('#grid').innerHTML=shades.slice(0,4).map((s,i)=>`<article class="card"><div class="photo"><a href="https://www.swati.com/products/${s[2]}-daily-lenses"><img src="assets/${s[0]}.png" alt="${s[1]} lenses on an eye"></a><div class="badges"><span class="badge">SAVE 20%</span>${i===0?'<span class="badge black">BESTSELLER</span>':''}</div>${trigger==='plus'?`<button class="plus-trigger" data-open="${s[0]}" aria-label="Quick add ${s[1]}">+</button>`:''}</div><div class="meta"><div><a href="https://www.swati.com/products/${s[2]}-daily-lenses"><strong>${s[1]}</strong></a><p>For Daily Use (5 Pairs)</p></div><div class="cardprice">319 kr<s>399 kr</s></div></div>${trigger==='split'?`<div class="splitactions"><a class="secondary" href="https://www.swati.com/products/${s[2]}-daily-lenses">SHOP NOW</a><button class="primary" data-open="${s[0]}">QUICK ADD</button></div>`:trigger==='plus'?`<a class="primary" style="display:flex;align-items:center;justify-content:center;text-decoration:none" href="https://www.swati.com/products/${s[2]}-daily-lenses">SHOP NOW</a>`:`<button class="primary" data-open="${s[0]}">QUICK ADD</button>`}</article>`).join('');
+$('#grid').innerHTML=shades.slice(0,4).map((s,i)=>`<article class="card"><div class="photo"><a href="https://www.swati.com/products/${s[2]}-daily-lenses"><img src="assets/${s[0]}.png" alt="${s[1]} lenses on an eye"></a><div class="badges"><span class="badge">SAVE 20%</span>${i===0?'<span class="badge black">BESTSELLER</span>':''}</div>${trigger==='plus'?`<button class="plus-trigger" data-open="${s[0]}" aria-label="Quick add ${s[1]}">+</button>`:''}</div><div class="meta"><div><a href="https://www.swati.com/products/${s[2]}-daily-lenses"><strong>${s[1]}</strong></a><p>For Daily Use (5 Pairs)</p></div><div class="cardprice">319 kr<s>399 kr</s></div></div>${trigger==='split'?`<div class="splitactions"><a class="secondary" href="https://www.swati.com/products/${s[2]}-daily-lenses">SHOP NOW</a><button class="primary split-quick" data-open="${s[0]}" aria-label="Quick buy ${s[1]}" title="Quick buy">+</button></div>`:trigger==='plus'?`<a class="primary" style="display:flex;align-items:center;justify-content:center;text-decoration:none" href="https://www.swati.com/products/${s[2]}-daily-lenses">SHOP NOW</a>`:`<button class="primary" data-open="${s[0]}">QUICK ADD</button>`}</article>`).join('');
 for(const id of ['power','left','right']){$('#'+id).innerHTML='<option value="">Select eye power</option>'+powers.map(v=>`<option value="${v}">${v==='0.00'?'0.00 · No correction':v}</option>`).join('');$('#'+id).onchange=e=>{state[id]=e.target.value;$('#error').hidden=true;update()}}
 $('#duration-select').innerHTML=durations.map((d,i)=>`<option value="${i}">${d.name} (${d.pack})</option>`).join('');
 $('#duration-select').onchange=e=>{state.duration=Number(e.target.value);if(state.duration===0&&shades.findIndex(s=>s[0]===state.shade)>8)state.shade='jade';state.power=state.left=state.right='';update()};
